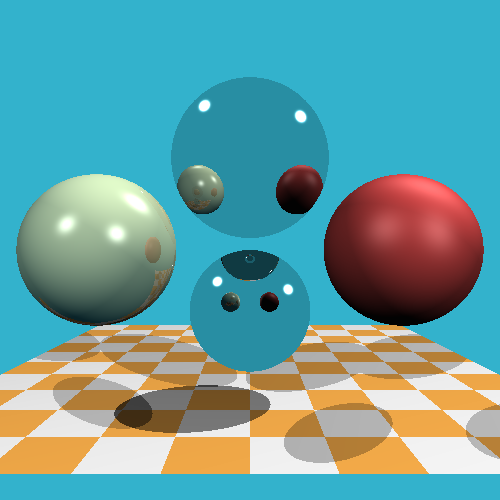
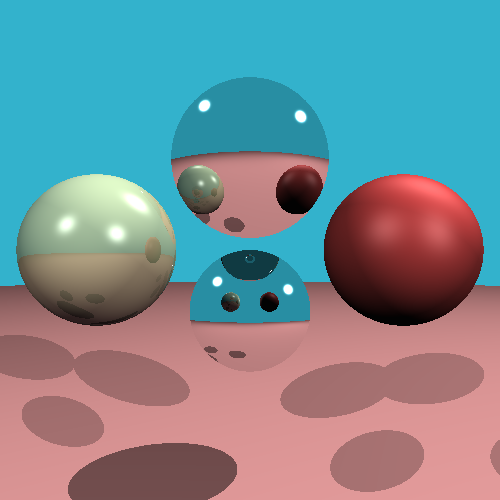
Implemented reflection

diff --git a/Ray Tracing/Renderer.h b/Ray Tracing/Renderer.h
@@ -37,6 +37,7 @@ public:
 		rendererStarted = true;
 		timer.start = clock();
 		DEBUG("PUTTING IN BUFFER");
+		#pragma omp parallel for
 		for (uint j = 0; j < height; j++) {
 			for (uint i = 0; i < width; i++) {
 				buffer[index(i, j)] = castRay(rayOrigin, getRay(i,j), objects, lights);
@@ -85,19 +86,20 @@ public:
 				hitMaterial = Material(*o->getMaterial());
 			}
 		}
-		float checkerboard_dist = std::numeric_limits<float>::max();
-		if (fabs(dir[1]) > 1e-3) {
-			float d = -(origin[1] + 5) / dir[1]; // the checkerboard plane has equation y = -4
-			Vector3 pt = origin + dir * d;
-			if (d > 0 && fabs(pt[0]) < 10 && pt[2]<-10 && pt[2]>-30 && d < maxDistance) {
-				checkerboard_dist = d;
-				hitPoint = pt;
-				N = Vector3(0, 1, 0);
-				Vector3 diffuse_color = (int(.5*hitPoint[0] + 1000) + int(.5*hitPoint[2])) & 1 ? Vector3(1, 1, 1) : Vector3(1, .7, .3);
-				hitMaterial.setDiffuse(diffuse_color*.3);
-			}
-		}
-		return std::min(maxDistance, checkerboard_dist) < 1000;
+		//float checkerboard_dist = std::numeric_limits<float>::max();
+		//if (fabs(dir[1]) > 1e-3) {
+		//	float d = -(origin[1] + 5) / dir[1]; // the checkerboard plane has equation y = -4
+		//	Vector3 pt = origin + dir * d;
+		//	if (d > 0 && fabs(pt[0]) < 10 && pt[2]<-10 && pt[2]>-30 && d < maxDistance) {
+		//		checkerboard_dist = d;
+		//		hitPoint = pt;
+		//		N = Vector3(0, 1, 0);
+		//		Vector3 diffuse_color = (int(.5*hitPoint[0] + 1000) + int(.5*hitPoint[2])) & 1 ? Vector3(1, 1, 1) : Vector3(1, .7, .3);
+		//		hitMaterial.setDiffuse(diffuse_color*.3);
+		//	}
+		//}
+		//return std::min(maxDistance, checkerboard_dist) < 1000;
+		return maxDistance < 1000;
 	}
 
 	bool output(const char* fileName) {

diff --git a/Ray Tracing/main.cpp b/Ray Tracing/main.cpp
@@ -8,14 +8,16 @@ int main() {
 	Renderer renderer(width, height,Vector3(0));
 	renderer.backgroundColor(Vector3(0.2, 0.7, 0.8));
 
-	Material      ivory(Vector3(0.6, 0.3,.2), Vector3(0.4, 0.4, 0.3), 50);
-	Material red_rubber(Vector3(0.9, 0.1,0), Vector3(0.3, 0.1, 0.1), 10.);
 	Material mirror(Vector3(0.0, 10.0, 0.8), Vector3(1), 1425.0f);
+	Material ivory(Vector3(0.6, 0.3,.2), Vector3(0.4, 0.4, 0.3), 50);
+	Material planeMat(Vector3(.3,0, 0), Vector3(0.909, 0.619, 0.619), 10);
+	Material red_rubber(Vector3(0.9, 0.1,0), Vector3(0.3, 0.1, 0.1), 10.);
 
 	renderer.addModel(new Sphere(Vector3(-2, 0, -6), 1, ivory));
 	renderer.addModel(new Sphere(Vector3(0, 2, -10), 3, mirror));
 	renderer.addModel(new Sphere(Vector3(0, -2, -15), 4, mirror));
 	renderer.addModel(new Sphere(Vector3(2, 0, -6), 1, red_rubber));
+	renderer.addModel(new Plane(Vector3(0, -7, 0), Vector3(0, 1, 0), planeMat));
 
 	renderer.addLight(new Light(-20, 20, 20, 1.5f));
 	renderer.addLight(new Light(30, 50, -25, 1.8f));

diff --git a/Ray Tracing/Plane.h b/Ray Tracing/Plane.h
@@ -6,7 +6,7 @@ typedef const Vector3 CVector3;
 
 class Plane : public Model{
 public:
-	Plane(CVector3& p0, CVector3& N,CMaterial& mat) : p0(p0), N(N),material(mat) {
+	Plane(CVector3& center, CVector3& N,CMaterial& mat) : p0(center), N(N),material(mat) {
 
 	}
 	bool rayIntersect(const Vector3& origin, const Vector3& dir, float& t) const {
